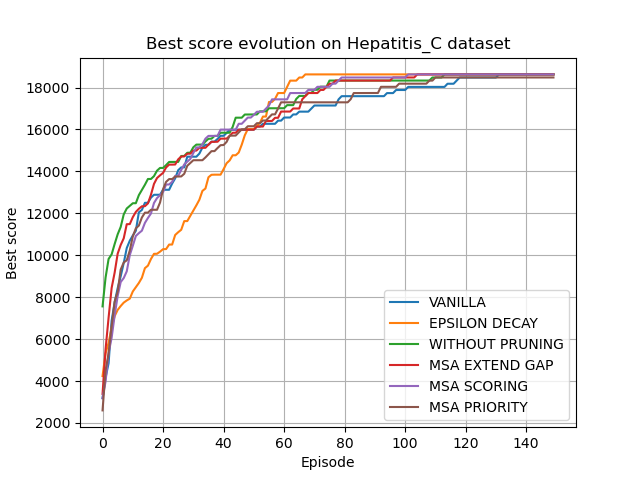
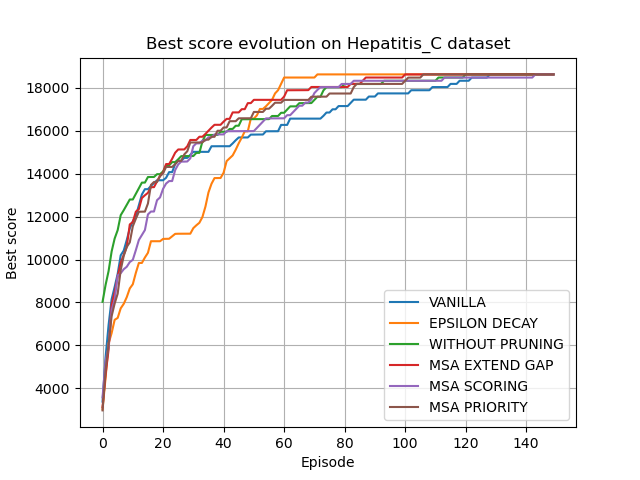
[ADD] rerun ultimate plot  + debug with the new name

diff --git a/src/plotting.py b/src/plotting.py
@@ -6,11 +6,11 @@ from data_garbage import Data_garbage
 
 PATH_BRUTE_FORCE = "../data_experiment/-1_BRUTE_FORCE"
 PATH_VANILLA = "../data_experiment/0_VANILLA"
-PATH_ESPILON_DECAY = "../data_experiment/1_EPSILON_DECAY"
-PATH_WITHOUT_TRUNCATURE = "../data_experiment/2_WITHOUT_TRUNCATURE"
-PATH_MSA_EXTENDED_GAP = "../data_experiment/3_MSA_EXTEND_GAP"
-PATH_MSA_SCORING = "../data_experiment/4_MSA_SCORING"
-PATH_MSA_PRIORITY = "../data_experiment/5_MSA_PRIORITY"
+PATH_ESPILON_DECAY = "../data_experiment/1_EPSILON_DECAY_Q"
+PATH_WITHOUT_TRUNCATURE = "../data_experiment/2_WITHOUT_TRUNCATURE_Q"
+PATH_MSA_EXTENDED_GAP = "../data_experiment/3_EXTEND_GAP_MSA"
+PATH_MSA_SCORING = "../data_experiment/4_DIFFENT_VALUE_MSA"
+PATH_MSA_PRIORITY = "../data_experiment/5_PRIORITY_ORDER_MSA"
 
 LIST_PATH_SETTINGS = [PATH_VANILLA,PATH_ESPILON_DECAY,PATH_WITHOUT_TRUNCATURE,PATH_MSA_EXTENDED_GAP,
                       PATH_MSA_SCORING,PATH_MSA_PRIORITY]
@@ -122,9 +122,9 @@ def get_key_dico(path):
         key = "WITHOUT PRUNING"
     elif "EXTEND" in path:
         key = "MSA EXTEND GAP"
-    elif "MSA_SCORING" in path:
+    elif "DIFFENT_VALUE" in path:
         key = "MSA SCORING"
-    elif "MSA_PRIORITY" in path:
+    elif "PRIORITY" in path:
         key = "MSA PRIORITY"
     else:
         raise Exception

diff --git a/src/main.py b/src/main.py
@@ -113,7 +113,6 @@ def run_all_experiment():
     setting = BRUTE_FORCE # special case brute force
     for experiment in [DATASET_1, LEMUR_GORILLA_MOUSE, RAT_LEMUR_OPOSSUM,PAPIO_ANUBIS]:
         run_experimnet(setting, experiment)
-    #plot_experiment() # UnCOMMENT only when all test are finish
 
 if __name__ == "__main__":
     VSCODE = False
@@ -121,4 +120,11 @@ if __name__ == "__main__":
         if os.getcwd().split('/')[-1] == "advance_bio_info": # When running on VSCode instead of Pycharm
             os.chdir("src")
 
-    run_all_experiment()
+    RUN_ALL_EXPERIMENT = False # you can change it
+    PLOT_GRAPH = True # you can change it
+
+    if RUN_ALL_EXPERIMENT:
+        run_all_experiment()
+
+    if PLOT_GRAPH:
+        plot_experiment()

diff --git a/src/brute_force.py b/src/brute_force.py
@@ -116,7 +116,7 @@ def run_brute_force(experiment,setting_value,setting_name):
 
 
     # save inforamtion
-    name_experiment = _get_name(path) + "_brute_force"
+    name_experiment = _get_name(path)
     path_saving = "../data_experiment/" + str(setting_value) +"_" + setting_name + "/" + name_experiment
 
     if not os.path.isdir("../data_experiment"):
